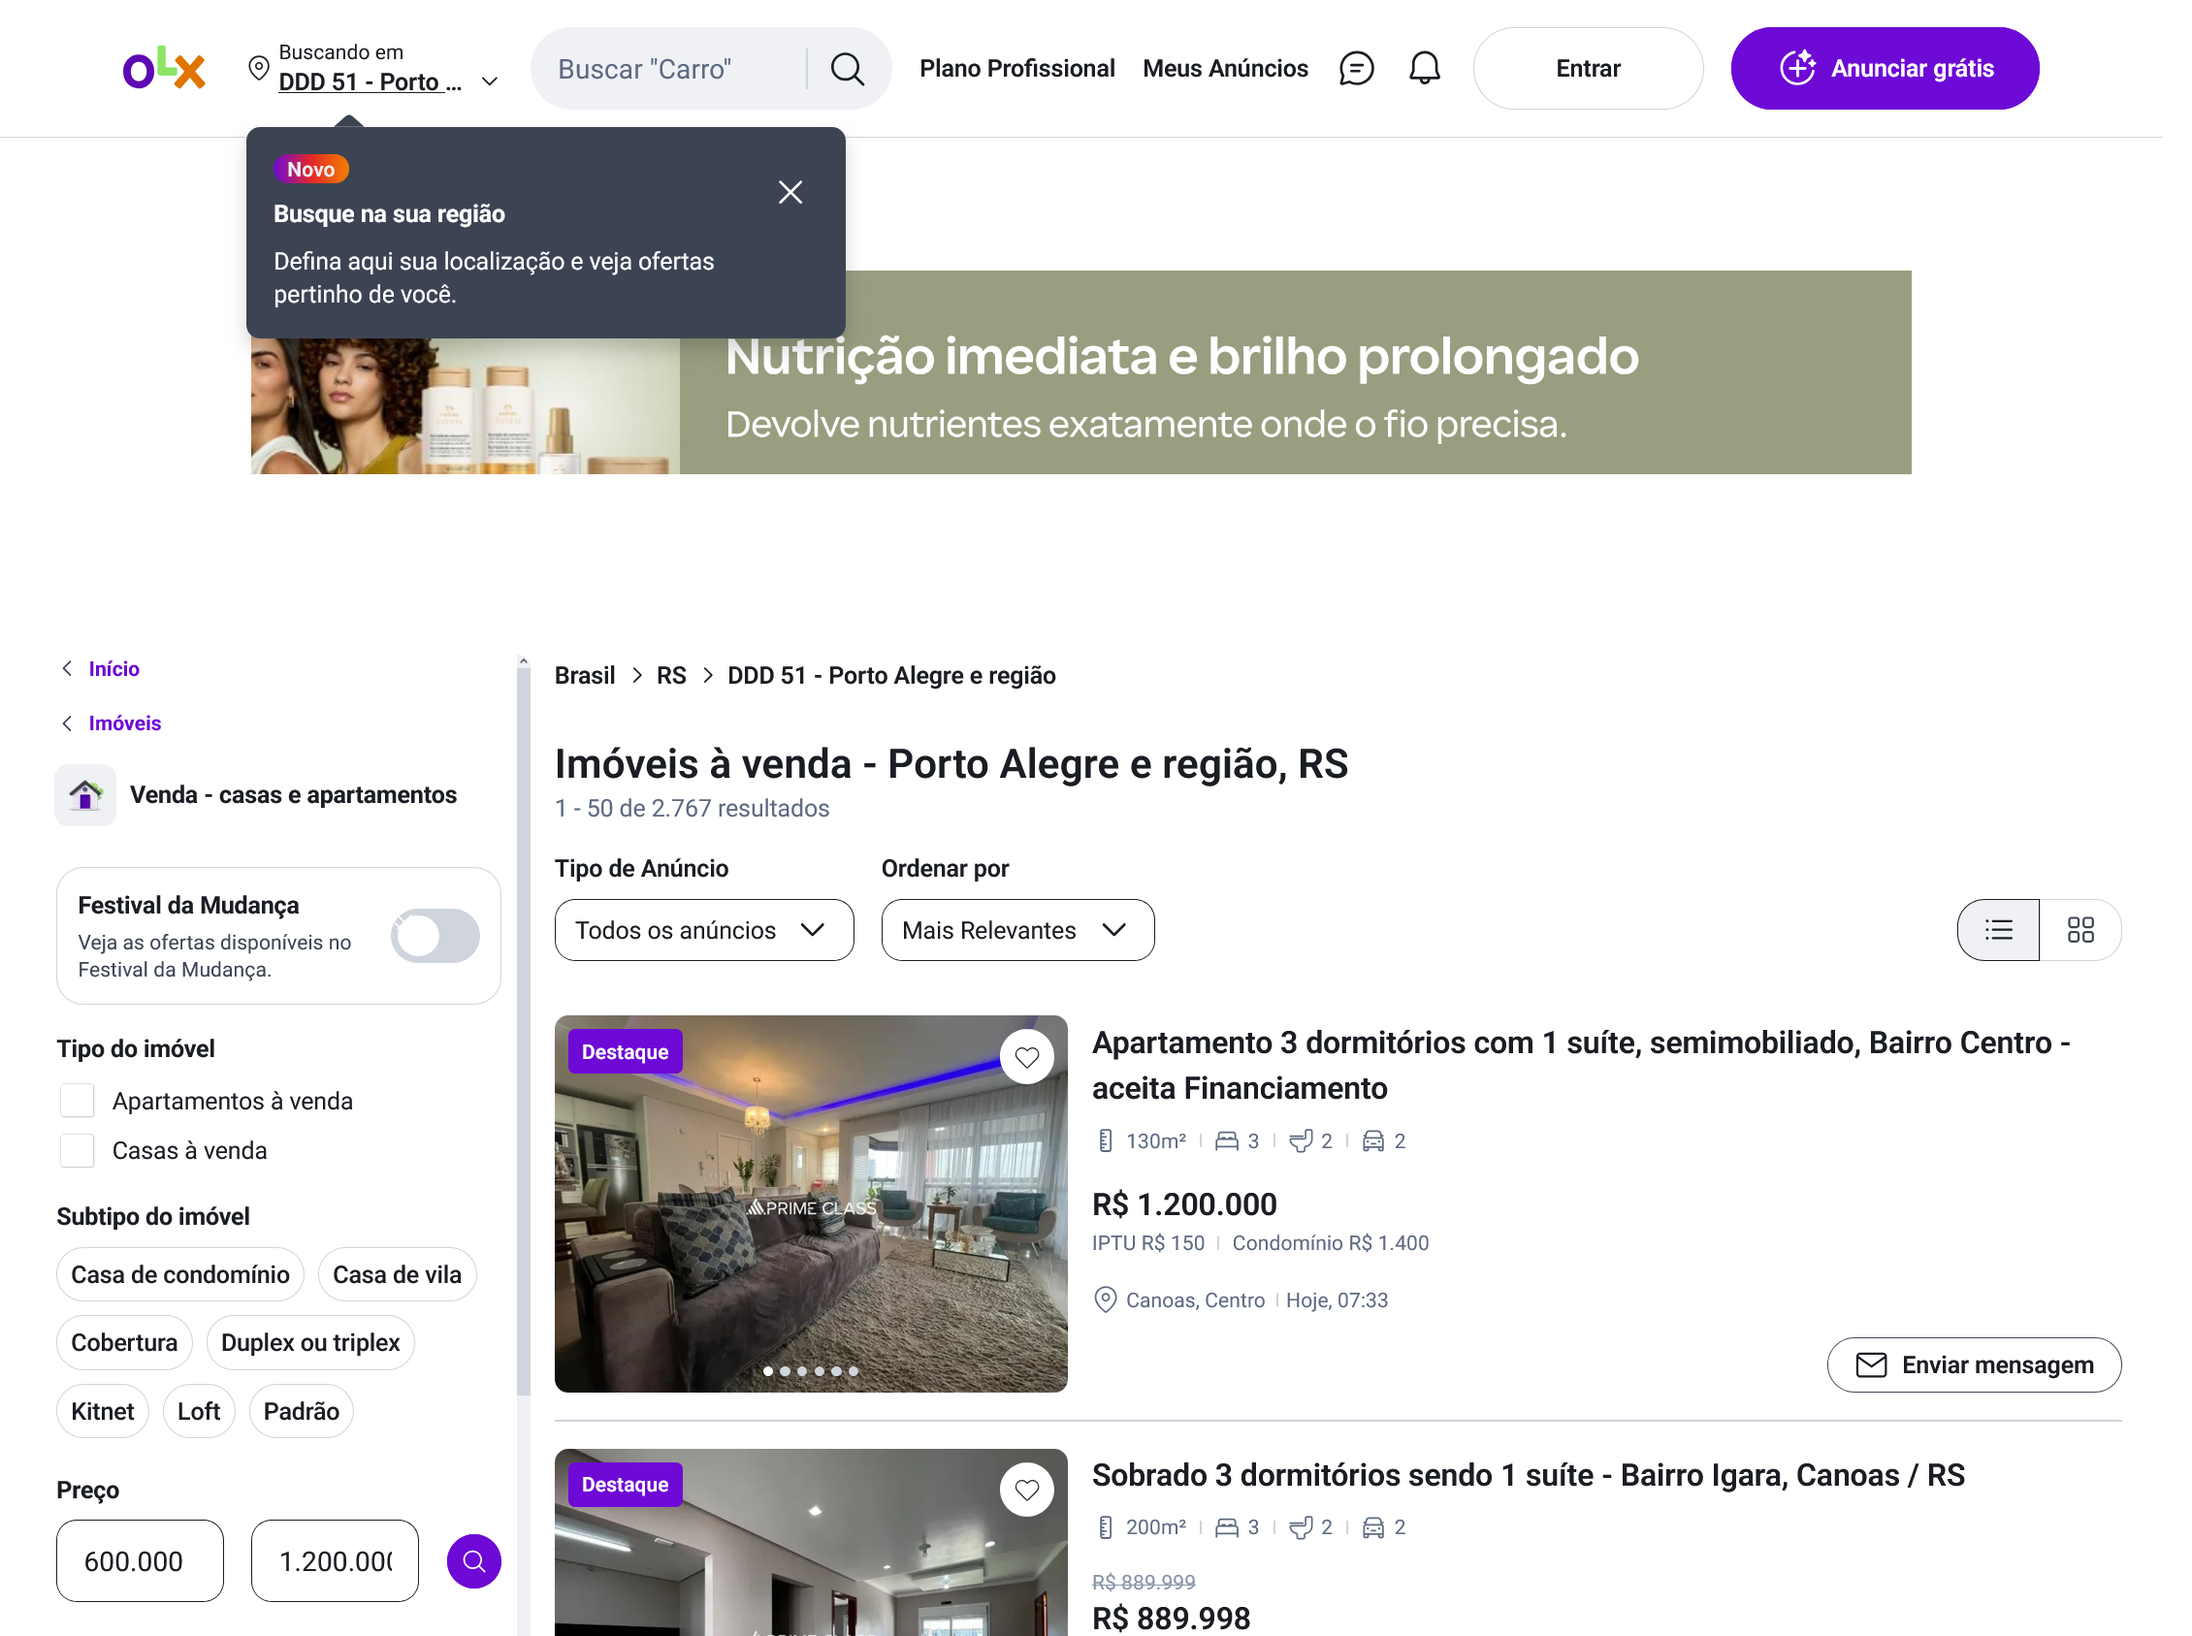
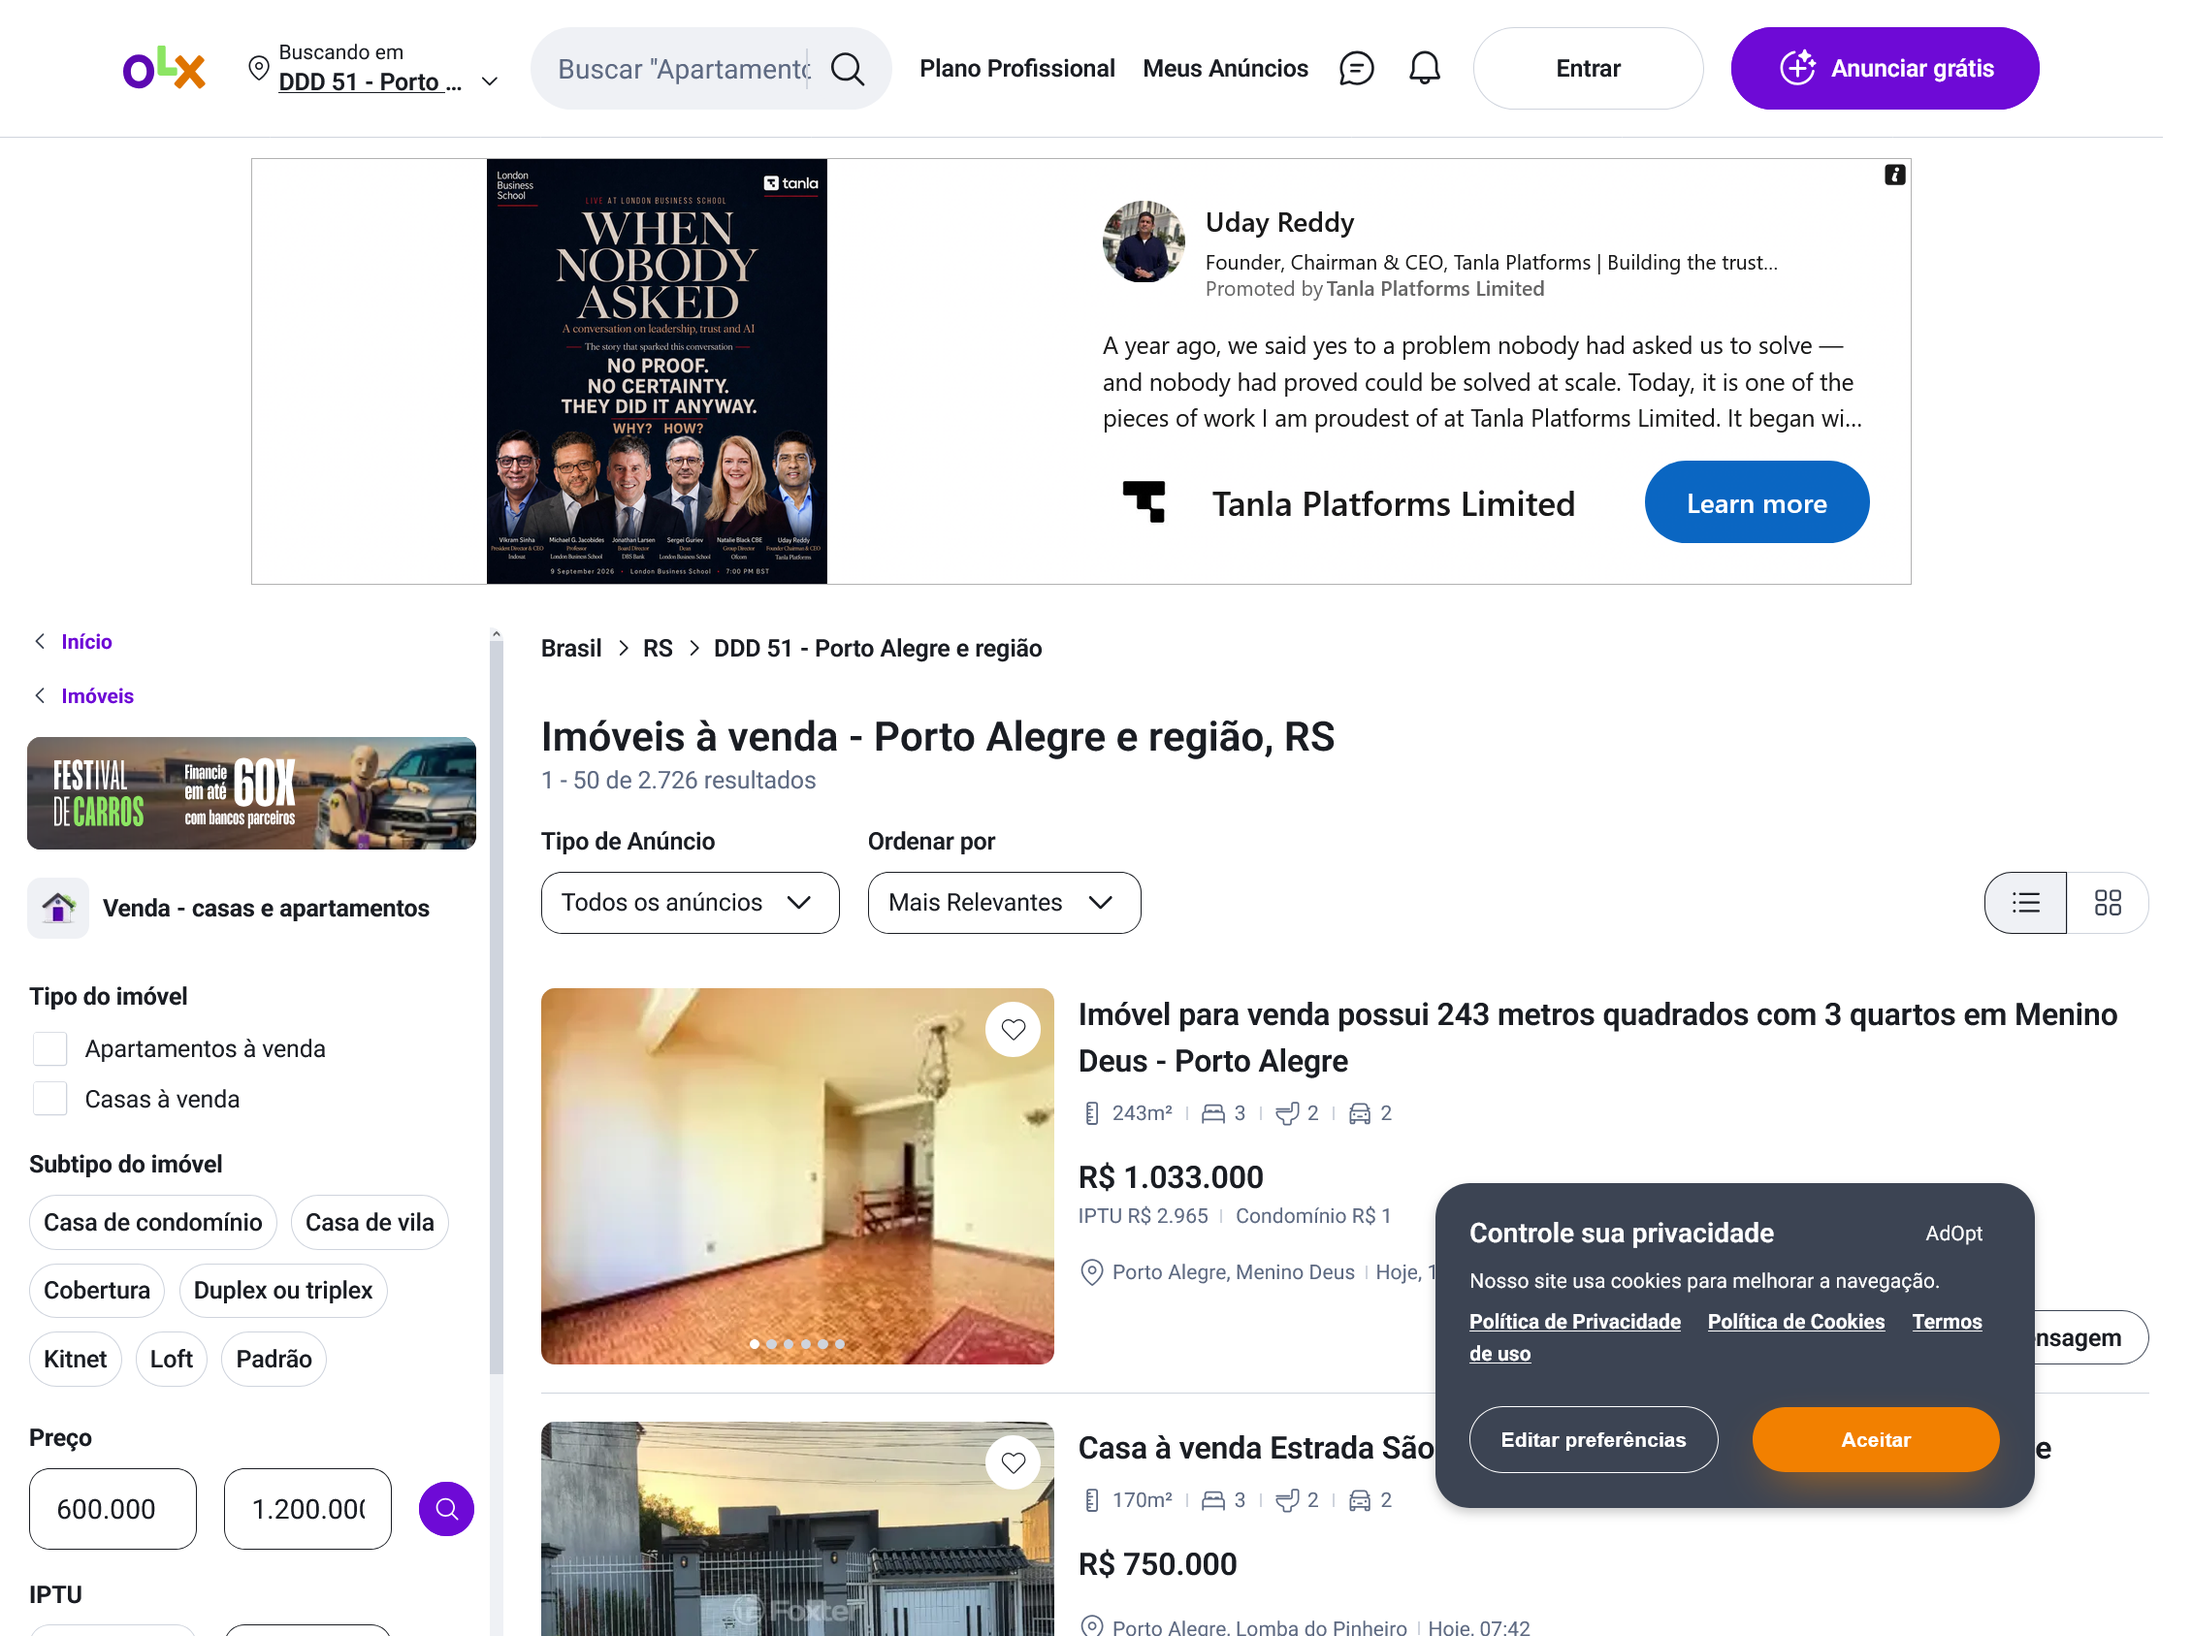
[FIX] - added IPTU and condominio columns to olx-version

diff --git a/zap.py b/zap.py
@@ -69,7 +69,7 @@ conn = pymysql.connect(**db_params)
 cur = conn.cursor()
 
 # Desired Table
-TABLE_NAME = 'properties_poa_4_dorm_novo_olx_preco_maior'
+TABLE_NAME = 'properties_poa_4_dorm_teste'
 
 
 TABLE_CREATION_QUERY = f'''
@@ -83,9 +83,11 @@ CREATE TABLE IF NOT EXISTS {TABLE_NAME} (
     n_dormitorios TEXT,
     n_banheiros TEXT,
     n_garagem TEXT,
-    resumo TEXT
+    IPTU TEXT,
+    condominio TEXT
 );
 '''
+
 
 # Table Helper Function:
 def table_exists(cursor, table_name):
@@ -102,6 +104,59 @@ def table_exists(cursor, table_name):
     """
     cursor.execute(query)
     return cursor.fetchone()[0]
+
+
+def parse_additional_costs(resumo):
+    """
+    Separates the resumo field into IPTU and condominio.
+
+    Examples:
+        "IPTU R$ 1.200 | Condomínio R$ 203"
+            -> ("R$ 1.200", "R$ 203")
+
+        "IPTU R$ 100"
+            -> ("R$ 100", "")
+
+        "Condomínio R$ 700"
+            -> ("", "R$ 700")
+
+        ""
+            -> ("", "")
+    """
+
+    iptu = ""
+    condominio = ""
+
+    if not resumo:
+        return iptu, condominio
+
+    parts = resumo.split("|")
+
+    for part in parts:
+        part = part.strip()
+
+        if re.search(r"\bIPTU\b", part, re.IGNORECASE):
+            value = re.sub(
+                r"^\s*IPTU\s*",
+                "",
+                part,
+                flags=re.IGNORECASE
+            ).strip()
+
+            iptu = value
+
+        elif re.search(r"\bCondom[ií]nio\b", part, re.IGNORECASE):
+            value = re.sub(
+                r"^\s*Condom[ií]nio\s*",
+                "",
+                part,
+                flags=re.IGNORECASE
+            ).strip()
+
+            condominio = value
+
+    return iptu, condominio
+
 
 # Create the 'properties' table if it does not exist
 try:
@@ -518,40 +573,47 @@ def add_json(json_data):
     '''
     Creates and appends a JSON object to the JSON List
     '''
+
     rua = json_data.get('rua', '')
     preco = json_data.get('preco', '')
     url = json_data.get('url', '')
-    bairro = json_data.get('bairro', '')  # NOVO: bairro
+    bairro = json_data.get('bairro', '')
     area = json_data.get('area', '')
     n_dormitorios = json_data.get('n_dormitorios', '')
     n_banheiros = json_data.get('n_banheiros', '')
     n_garagem = json_data.get('n_garagem', '')
     resumo = json_data.get('resumo', '')
 
+    # Split resumo into IPTU and condominio
+    iptu, condominio = parse_additional_costs(resumo)
+
     print("Rua: " + str(rua))
     print("Preco: " + str(preco))
     print("Url: " + url)
-    print("Bairro: " + bairro)  # NOVO: bairro
+    print("Bairro: " + bairro)
     print("Área em m2: " + area)
     print("Número de dormitórios: " + str(n_dormitorios))
     print("Número de banheiros: " + str(n_banheiros))
     print("Número de garagens: " + str(n_garagem))
-    print("Resumo: " + resumo)
+    print("IPTU: " + iptu)
+    print("Condomínio: " + condominio)
     print("----")
 
     json_obj = {
         "rua": rua,
         "preco": preco,
         "url": url,
-        "bairro": bairro,  # NOVO: bairro
+        "bairro": bairro,
         "areaEmM2": area,
         "n_dormitorios": n_dormitorios,
         "n_banheiros": n_banheiros,
         "n_garagem": n_garagem,
-        "resumo": resumo,
+        "IPTU": iptu,
+        "condominio": condominio,
     }
 
     json_list.append(json_obj)
+
 
 # --------------------------------------------------------------------------------------------------
 
@@ -560,21 +622,24 @@ json_list = []
 # Adds the JSON objects to the JSON List
 search_zap_imoveis()
 
+
 # CORRIGIDO: A query INSERT estava com número incorreto de parâmetros
 INSERT_QUERY = f'''
 INSERT INTO {TABLE_NAME} (
-rua,
-preco,
-url,
-bairro,
-areaEmM2,
-n_dormitorios,
-n_banheiros,
-n_garagem,
-resumo
+    rua,
+    preco,
+    url,
+    bairro,
+    areaEmM2,
+    n_dormitorios,
+    n_banheiros,
+    n_garagem,
+    IPTU,
+    condominio
 )
-VALUES (%s, %s, %s, %s, %s, %s, %s, %s, %s)
+VALUES (%s, %s, %s, %s, %s, %s, %s, %s, %s, %s)
 '''
+
 
 # Inserts the JSON objects into the database
 for item in json_list:
@@ -582,12 +647,13 @@ for item in json_list:
         item['rua'],
         item['preco'],
         item['url'],
-        item['bairro'],  # NOVO: bairro
+        item['bairro'],
         item['areaEmM2'],
         item['n_dormitorios'],
         item['n_banheiros'],
         item['n_garagem'],
-        item['resumo']
+        item['IPTU'],
+        item['condominio']
     ))
 
 # Commits the transaction
